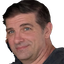
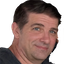
flips garner's image, has player facing opponent while resting

diff --git a/scenes/MainScene.js b/scenes/MainScene.js
@@ -1,3 +1,26 @@
+function setVelocity(player, playerControls) {
+  if (playerControls.left.isDown) {
+    player.setVelocityX(-160);
+  } else if (playerControls.right.isDown) {
+    player.setVelocityX(160);
+  } else {
+    player.setVelocityX(0);
+  }
+
+  if (playerControls.up.isDown && player.blocked.down) {
+    player.setVelocityY(-400);
+  }
+}
+
+function setDirection(one, other) {
+  const pVelX = one.body.velocity.x;
+  if (Math.abs(pVelX) > 5) {
+    one.setFlipX(pVelX < 0);
+  } else {
+    one.setFlipX(one.x > other.x);
+  }
+}
+
 export default class MainScene extends Phaser.Scene {
   constructor() {
     super('MainScene');
@@ -12,14 +35,9 @@ export default class MainScene extends Phaser.Scene {
     this.ground = this.add.rectangle(400, 580, 800, 40, 0x888888);
     this.physics.add.existing(this.ground, true);
 
-    // TODO: replace rectangular players with images
-    // this.player1 = this.add.rectangle(200, 400, 40, 60, 0x00ff00);
-    // this.player2 = this.add.rectangle(600, 400, 40, 60, 0xff0000);
-    // this.physics.add.existing(this.player1);
-    // this.physics.add.existing(this.player2);
-
     this.player1 = this.physics.add.sprite(200, 400, 'chase');
     this.player2 = this.physics.add.sprite(600, 400, 'garner');
+    this.player2.setFlipX(true);
     this.player1.setCollideWorldBounds(true);
     this.player2.setCollideWorldBounds(true);
     this.physics.add.collider(this.player1, this.ground);
@@ -42,36 +60,12 @@ export default class MainScene extends Phaser.Scene {
     });
   }
 
+
   update() {
+    setVelocity(this.player1.body, this.p1Controls);
+    setVelocity(this.player2.body, this.p2Controls);
 
-    const p1 = this.player1.body;
-    const p2 = this.player2.body;
-
-    if (this.p1Controls.left.isDown) {
-      p1.setVelocityX(-160);
-    } else if (this.p1Controls.right.isDown) {
-      p1.setVelocityX(160);
-    } else {
-      p1.setVelocityX(0);
-    }
-
-    if (this.p1Controls.up.isDown && p1.blocked.down) {
-      p1.setVelocityY(-400);
-    }
-
-    if (this.p2Controls.left.isDown) {
-      p2.setVelocityX(-160);
-    } else if (this.p2Controls.right.isDown) {
-      p2.setVelocityX(160);
-    } else {
-      p2.setVelocityX(0);
-    }
-
-    if (this.p2Controls.up.isDown && p2.blocked.down) {
-      p2.setVelocityY(-400);
-    }
-
-    this.player1.setFlipX(this.player1.body.velocity.x < 0);
-    this.player2.setFlipX(this.player2.body.velocity.x < 0);
+    setDirection(this.player1, this.player2);
+    setDirection(this.player2, this.player1);
   }
 }
